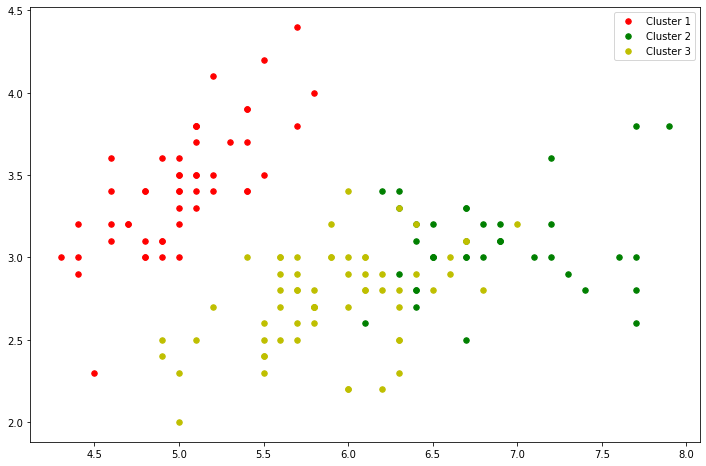
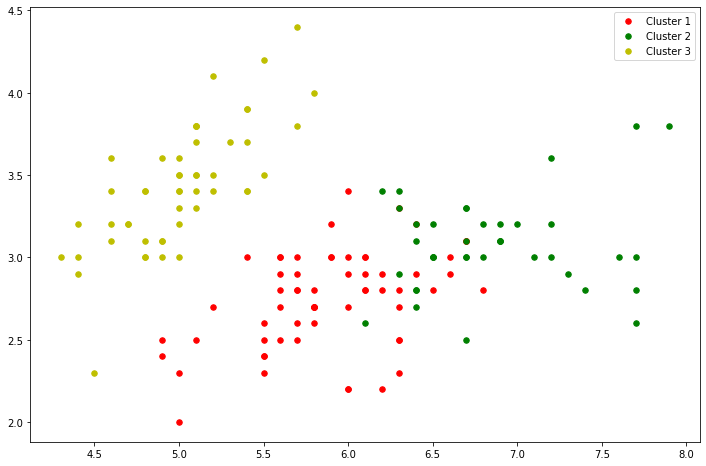
Update documentation

diff --git a/searchindex.js b/searchindex.js
@@ -1,1 +1,1 @@
-Search.setIndex({docnames:["intro","markdown","markdown-notebooks","notebooks","tugas-pendat/Tugas-1","tugas-pendat/Tugas-2","tugas-pendat/Tugas-3","tugas-pendat/Tugas-4","tugas-pendat/Tugas-5"],envversion:{"sphinx.domains.c":2,"sphinx.domains.changeset":1,"sphinx.domains.citation":1,"sphinx.domains.cpp":5,"sphinx.domains.index":1,"sphinx.domains.javascript":2,"sphinx.domains.math":2,"sphinx.domains.python":3,"sphinx.domains.rst":2,"sphinx.domains.std":2,"sphinx.ext.intersphinx":1,"sphinxcontrib.bibtex":9,sphinx:56},filenames:["intro.md","markdown.md","markdown-notebooks.md","notebooks.ipynb","tugas-pendat/Tugas-1.ipynb","tugas-pendat/Tugas-2.ipynb","tugas-pendat/Tugas-3.ipynb","tugas-pendat/Tugas-4.ipynb","tugas-pendat/Tugas-5.ipynb"],objects:{},objnames:{},objtypes:{},terms:{"0":[3,4,5,6,7,8],"000":7,"006":8,"025":4,"05":8,"07105263":8,"07368421":8,"0976":5,"099":5,"0c1cdefd54ea":7,"0x7f1bacec0350":[],"0x7f1bad4225d0":[],"0x7f601a4110d0":[],"0x7f601a48e410":[],"0x7f76a44a7350":[],"0x7f76aa023b10":[],"0x7f8c29ef6c90":[],"0x7f8c29fd7450":[],"0x7fea0260c050":8,"0x7fea026ec2d0":8,"1":[0,3,5,6,7,8],"10":[3,5,6],"100":[3,7,8],"1000":8,"103":4,"104":4,"105":4,"106":4,"107":4,"11":[4,6,7],"111":4,"118":4,"119":4,"12":[4,6,8],"120":4,"121":4,"122":4,"13":[4,6],"14":[4,6],"145":[5,7],"146":[5,7],"147":[5,7],"148":[5,7],"149":[5,7],"15":[5,6],"150":[5,6,7,8],"158":4,"16":[6,7],"169":4,"17":6,"170":4,"171":4,"179":8,"18":[6,7],"188":8,"19":6,"1936":8,"1950":8,"19680801":3,"1972":8,"1973":8,"1980":8,"1988":8,"1kuhyae0nojabhur8x9ft53ubbezy5rfj":6,"1myelto3v5yh3_dw2yjto4iwsxl1x4hx9":8,"1nmyhhmsa42gewd8kseny5po":7,"1rimsik6b7ieoeh2gkaj_mjajr8nvzpcq":5,"1ucj0bh7uyoa_uqevlc9cj_qmudkyfn3d":4,"2":[0,2,4,6,7,8],"20":[4,5,6,8],"2000":8,"2006":4,"2007":4,"2009":4,"2014":1,"2015":4,"2018":4,"2019":4,"2020":4,"2021":4,"21":6,"210411100119":[4,5,7],"21411100119":6,"218":8,"22":6,"22361":8,"23":6,"24":[4,6],"246":8,"25":[4,6],"296":5,"2989999999999995":5,"3":[0,4,5,7,8],"30":8,"33":8,"39354839":8,"3f":7,"3n1q3fiyfi20":4,"4":[0,2,3,4,5,6,8],"4194":8,"42":5,"428":8,"43":[5,8],"431":8,"433":8,"43387097":8,"46":5,"462":8,"47":5,"471":8,"48":5,"5":[3,4,5,6,7,8],"50":[5,8],"52":5,"54":[5,8],"56":5,"57":5,"59":5,"6":[5,6,7,8],"633":5,"64":8,"67":8,"6f9306ad21398ea43cba4f7d537619d0e07d5ae3":[5,6],"7":[4,5,6,7,8],"71":[5,8],"74210526":8,"7483871":8,"76":8,"7826":8,"8":[5,6,7,8],"83":8,"84":8,"85":8,"867":5,"88":[4,5],"8802":4,"8803":4,"8804":4,"8805":4,"8806":4,"8807":4,"8836201":[5,6],"8_":7,"9":[5,6,7,8],"90":4,"9016129":8,"9182958340544896":5,"933":5,"93333333":6,"9490":8,"95":4,"9565":8,"95c3c8c22551d5a29b4e92febecd7646":7,"96":4,"9666666666666667":6,"96666667":6,"967":5,"97":4,"98":4,"9800000000000001":6,"99":4,"994":5,"998":5,"999":5,"class":8,"default":2,"do":[1,3],"function":[1,8],"import":[3,4,5,6,7,8],"long":8,"new":[4,5,6,8],"return":[4,5,8],"true":[4,5,7],"while":4,A:[4,8],As:[3,4],But:3,For:[1,3],If:2,In:[1,4],Is:4,It:[0,1],NOT:8,No:8,One:8,That:2,The:[1,2,8],There:3,To:4,With:2,_iris_dataset:8,_messag:4,_mount:4,_not_readi:4,_o:4,_read_next_input_messag:4,about:[1,2,3,5,8],acc_gaussian:7,accept:1,accuraci:[6,7],accuracy_na:7,accuracy_nb:7,accuracy_scor:7,act:4,adalah:5,add:8,add_:3,africa:4,after:4,akan:5,al:8,alam:4,algorithm:[0,8],align:[3,5],all:[1,2,4,6,8],all_prob:5,allen:4,allow:1,alon:4,also:[1,2,3,8],ama:4,ambil:5,amo:4,amount_of_bin:5,amount_of_every_categori:5,amp:4,an:[1,8],analysi:8,angka:4,ani:[0,2],annual:8,antara:5,api:8,append:[5,8],appli:[4,8],ar:[1,2,8],arang:6,arc:8,argmin:8,around:8,arrai:[3,6,7,8],assign:8,assumpt:8,atau:5,attribut:8,auditori:1,australia:1,authtyp:4,authus:8,autoclass:8,averag:[6,7],ax:[3,8],axi:[4,5,8],b:8,banyaknya:5,base:2,basi:5,bay:0,been:6,begin:[3,5],being:1,berbasi:5,berdasarkan:5,bertip:5,besar:5,best:8,best_params_:6,best_score_:6,bib:1,bibliographi:1,bibtex:1,bin:5,binari:0,block:2,blocking_request:4,blood:4,boi:4,book:[1,2,3,5],both:[1,8],bouajila:4,box:1,brian:1,brisban:1,build:1,built:2,bundl:0,bunga:5,c_d_1_2:4,c_d_1_3:4,c_df_1_4:4,call:[1,4,5,7],can:[1,2,3],cape:4,cari:5,carilah:5,cartoonist:4,cast:4,categor:5,categori:5,center:4,centriod:8,centroid:8,chanan:4,chang:5,change_code_embark_to_bin:4,change_code_rating_to_bin:4,characterist:8,chase:4,check:[0,3,6],cheeseman:8,chevi:4,children:4,christoph:1,cite:1,citi:4,civilian:4,classic:8,classif:8,classifi:[0,6],classification_report:7,closest:8,cluster1:8,cluster2:8,cluster3:8,cluster:8,cluster_centers_:8,cm:[3,7,8],cmap:3,coach:4,code:[1,2,4,8],cognit:1,col:5,colab:[4,5,6,7,8],colab_repli:4,cold:3,color:[3,8],column:[4,5,6,7],column_rang:4,com:[4,5,6,7,8],comedi:4,command:2,comment:8,commonmark:1,compute_centroid:8,concat:[4,5],conceptu:8,confer:1,confus:7,confusion_matrix:7,constan:4,contain:8,content:[0,1,2,4],contingency_table_valu:4,contingency_valu:4,continu:4,contribut:8,convert:2,coolwarm:3,correl:8,cortex:1,count:5,count_contingency_valu:4,count_entropi:5,count_gain:5,counteverycategori:5,countri:4,courtenei:4,cox:4,creat:[3,5,6],creator:8,crime:4,cross:4,cross_val_scor:[6,7],csv:[4,5,6,7,8],csvfile:8,cult:4,current:8,custom_lin:3,cv:6,cv_score:6,cycler:3,d5df0069828e:4,d83:8,d:[2,4,5,7],d_1:5,d_2:5,dai:8,dan:[4,5],dari:5,dasarathi:8,data:[3,4,6,7,8],data_column:5,data_tujuan:5,databas:8,datafram:[5,6],datappint:8,dataset:[4,6,8],dataset_url:[5,6,7],date:8,date_ad:4,david:4,de:1,dead:4,decrement_by_on:4,def:[4,5,8],defin:[2,5,7],definisi:5,dengan:5,depend:[1,8],depict:8,depth:0,descr:8,descript:4,detail:2,df:[4,6],df_1_2:4,df_1_3:4,df_1_4:4,df_petal_width_ef:5,dfs_ephemer:4,dia:4,diberikan:5,dick:4,dict:4,dictionari:6,differ:1,digunakan:5,dikelompokkan:5,direct:2,director:4,discret:5,diskritasi:0,diskritisasi:5,displai:2,displaystyl:5,dissimilar:0,dist:4,distanc:8,distribut:8,divis:8,document:[0,1,2,3],documentari:4,docuseri:4,doe:0,dollar:3,donor:8,down:4,downei:4,drag:4,drama:4,drive:[4,5,6,7,8],drop:[6,7],drug:4,dtype:[5,6,7],duda:8,dumb:4,durat:4,e39b75ee5d40e08ad0e922ad3d9dfb064e559289:7,e:[7,8],e_:5,ea56e86e1af7:5,each:[6,8],ecosystem:1,eisenberg:4,els:[4,5],emb:3,emma:4,end:[3,4,5],entropi:5,entropi_data_target_1:5,entropy_data_tujuan_1:5,environ:8,ephemer:4,equal:5,equeal:5,escap:3,estim:[6,8],et:8,etc:3,eugen:8,everi:8,evid:1,exampl:[1,3,8],except:6,execut:[2,8],expandus:4,expect:8,expect_repli:4,explicit:8,expos:8,express:8,extens:1,f1:7,f1_score:7,factori:4,famili:4,famou:8,farid:[4,5,6,7],father:4,feature_nam:8,feel:0,feud:4,few:0,field:8,fig:[3,8],figsiz:[3,8],file:[0,2,7],filmm:4,fincher:4,find:8,find_closest_centroid:8,first:[5,6,8],first_seri:4,fisher:8,fit:[6,7,8],fitur:4,fix:3,flavor:1,fleischer:4,flirtat:4,follow:[1,2],force_remount:4,form:8,former:4,found:8,frac:5,frekuensi:5,frequenc:5,frequent:8,from:[3,4,5,6,7,8],frontier:1,full:8,fulli:8,fungsi:5,g:[4,7,8],gail:4,gain:5,gangland:4,gate:8,gaussian:7,gaussiannb:7,gener:8,get:[1,2,4],get_dissimilarity_dataset:4,get_seri:4,ghozali:[4,5,6,7],gist:[5,6,7],gistfile1:7,github:5,githubusercont:[5,6,7],give:0,given:[5,8],go:[0,4],googl:[4,5,6,7,8],gotoa:4,gov:8,greater_grup:5,gridsearch:6,gridsearchcv:6,groupbi:5,grup:5,guid:3,gyllenha:4,ha:[6,8],harrelson:4,hart:8,hasil:5,have:2,hdhpk14:1,head:[4,5,6],heer:1,help:1,her:4,here:[1,3,8],hewitt:4,hi:4,high:8,holdgraf:1,holdgraf_evidence_2014:1,horror:4,hot:3,how:[0,2,8],html:[3,8],http:[4,5,6,7,8],human:1,i:[4,5,7,8],id:7,identifi:8,idx:[4,8],ieee:8,ii:[3,8],iloc:7,imag:3,implement:8,implementasi:[0,5],impor:5,includ:[2,3],increment_by_on:4,india:4,info:5,info_a:5,inform:[0,2,3,8],informasi:5,inisi:5,inisial_entropi:5,init:2,initi:5,initial_centroid:8,initial_data_tujuan_entropi:5,inlin:[1,8],inplac:7,input:[1,4,5,7,8],insert:1,instanc:8,instead:8,instruct:2,int64:5,intellig:8,interact:3,intern:[1,4],interv:5,interval_petal_length_ef_bin:5,interval_petal_length_ew_bin:5,interval_petal_width_ef_bin:5,interval_petal_width_ew_bin:5,interval_sepal_length_ef_bin:5,interval_sepal_length_ew_bin:5,interval_sepal_width_ef_bin:5,interval_sepal_width_ew_bin:5,io:8,ion:3,ipynb:1,ipython:[4,5,7],iri:[5,6,7,8],isbn:8,isinst:4,item:4,iter:8,its:8,j:4,jadi:4,jailbird:4,jake:4,jane:4,januari:4,jess:4,jika:4,jitendra:4,john:8,johnson:4,joui:4,juli:[4,8],julien:4,jumlah:5,jupyt:[1,2,3,5],jupyterbook:1,jupytext:2,just:1,k:[0,4,5,8],k_meancluster1:8,k_meancluster2:8,k_meancluster3:8,kate:4,kategori:5,kaushal:4,keep:3,kelopak:5,keluar:5,kerangka:5,kernel:2,keyboardinterrupt:4,keyboardinterrupttraceback:4,kfold:7,khikisb:7,khosi:4,kid:4,kind:1,kirsten:4,klassifikasi:5,kmean:8,kneighborsclassifi:6,knight:1,knn2:6,knn:6,knn_cv:6,knn_gscv:6,known:[4,8],kolom:5,korean:4,kota:4,kumar:4,kumpulkan:5,la_:3,label:[5,8],labelled_petal_length_ef_bin:5,labelled_petal_length_ew_bin:5,labelled_petal_width_ef_bin:5,labelled_petal_width_ew_bin:5,labelled_sepal_length_ef_bin:5,labelled_sepal_length_ew_bin:5,labelled_sepal_width_ef_bin:5,labelled_sepal_width_ew_bin:5,labels_:8,lakukan:5,languag:1,last:[4,5,7],last_index:4,latter:8,learn:8,lebar:5,lebar_pet:5,lebar_sep:5,leclercq:4,legend:[3,8],len:5,length:[5,6,8],length_greater_grup:5,length_less_grup:5,less_grup:5,let:[2,8],lib:[4,8],librari:[5,8],life:4,like:[1,2,8],linalg:8,line2d:3,line:[1,2,3],linearli:8,link:[4,5,6,7,8],linspac:3,list:4,listed_in:4,literatur:8,live:4,ll:1,load_iri:8,loc:[4,5],local:[4,8],log2:5,log:5,log_:5,logspac:3,look:4,lor:4,lot:[1,3],lsqtushh:7,lw:3,m:8,ma:4,mabalan:4,machin:8,mahkota:5,mai:8,major:0,make:[3,8],make_scor:7,mani:[1,2,8],march:4,mark:4,markdown:[],markdownfil:2,markedli:1,markup:1,marshal:8,math:[3,5],mathemat:8,matplotlib:[3,4,8],matrix:7,max:8,max_it:8,mayur:4,mbox:3,md:[1,2],mean:[3,6,8],measur:8,medium:3,melakukan:5,membagi:5,memiliki:5,mencari:5,mengelompokkan:5,menghitung:5,mengubah:[4,5],menjadi:5,message_id:4,metod:5,metric:7,michael:8,micro:7,min:[4,8],min_dist:8,mine:4,miss:8,mlc:8,model:[6,7],model_select:[6,7],modul:[4,5,7,8],more:[0,2,3,4,8],moreov:1,most:[1,4,5,7],mount:4,mountpoint:4,movi:4,mozez:4,multipl:8,music:4,must:1,mydriv:4,myst:[],mysteri:4,n:[1,3,5,7,8],n_cluster:8,n_neighbor:6,n_petal_length_ef:5,n_petal_length_ew:5,n_petal_width:5,n_petal_width_ef:5,n_sepal_length_ef:5,n_sepal_length_ew:5,n_sepal_width_ef:5,n_sepal_width_ew:5,nabi:4,naiv:0,naive_bay:7,nama:[4,5,6,7],name:[5,7],nameerror:[5,7],nameerrortraceback:[5,7],nan:4,nasa:8,nearest:8,nears:4,need:2,neighbor:[6,8],neighborhood:8,netflix_titl:4,netj:[5,6],neurosci:1,new_entropi:5,newlin:8,ngema:4,nilai:5,nim:[4,5,6,7],nn:0,none:[4,8],norm:8,nose:8,note:[1,8],notebook:1,novemb:4,now:8,np:[3,4,6,8],number:[6,8],numer:[5,8],numerik:5,numpi:[3,4,6,8],ny:8,o:[7,8],object:6,off:[0,1,2],one:1,open:8,oper:8,org:[1,8],orlean:4,other:[2,8],our:[6,8],out:[0,3],output:2,over:4,overview:1,p4yhfp_bh7bv:8,p:8,packag:[4,5,8],pada:5,page:[0,1,2,8],pale:5,pami:8,panda:[4,5,6,7,8],panjang:5,panjang_pet:5,panjang_sep:5,paper:8,param_grid:6,parent:4,part:8,parti:4,partial:8,particular:0,paslei:1,path:[2,4,8],pattern:8,pd:[4,5,6,7,8],pembagi:5,penambangan:[],pendekatan:5,pengelompokkan:5,perbedaan:5,perform:[6,8],perhap:8,perhitungan:5,perolehan:5,persiapan:5,petal:[5,6,8],petal_length:5,petal_length_ef_bin:5,petal_length_ew_bin:5,petal_length_seri:5,petal_width:5,petal_width_ef_bin:5,petal_width_ew_bin:5,petal_width_seri:5,petallengthcm:7,petalwidthcm:7,peter:4,pg:4,pi:5,pick:8,plant:8,plot:3,plt:[3,4,8],plu:8,po81qiho34lorl_cugbsdo8fbc7nxcc:[],point:8,polit:4,poor:4,posit:8,post:3,power:[1,4],precis:7,precision_na:7,precision_scor:7,predict:[1,6,7,8],presenc:2,print:[2,6,7,8],prob:5,probabl:8,problem:8,proceed:8,process:7,prop_cycl:3,properli:1,prose:5,protect:4,provid:8,purpos:1,py:4,pyplot:[3,4,8],python3:[4,8],python:8,q327:8,q:4,qamata:4,qcut:5,quot:8,quote_nonnumer:8,r:[4,8],raaghav:4,raj:4,ramsai:1,randint:8,randn:3,random:[3,8],random_st:[6,7],rang:[3,4,8],ranjan:4,rat:4,rate:4,rating_movi:4,rating_tv:4,ravel:8,raw:[5,6,7],rcparam:3,read_csv:[4,5,6,7],read_reply_from_input:4,readi:8,realiti:4,recal:7,recall_na:7,recall_scor:7,recent:[4,5,7],recognit:8,reduc:8,refer:[1,8],referenc:8,regular:1,release_year:4,remov:6,render:1,repli:4,report:4,repositori:8,reproduc:3,request:4,request_auth:4,request_id:4,request_typ:4,research:[4,5,6,7,8],rest:2,result:8,right:5,robert:[1,4],romant:4,round:7,row:[4,5,6,7],ruben:4,ruffalo:4,rule:8,rumu:5,run:2,run_k_mean:8,s1:4,s2:4,s3:4,s4:4,s5:4,s8803:4,s8804:4,s8805:4,s8806:4,s8807:4,s:[1,2,3,4,5,8],sama:5,same:[1,8],sami:4,sampl:[0,3],samuel:4,sangat:5,sangat_lebar:5,sarah:4,scatter:8,scene:8,scikit:8,score:[6,7],score_na:7,scrappi:4,scrollto:[4,5,7,8],sd:8,seaborn:4,season:4,sebuah:5,second_seri:4,sedikit:5,sedikit_lebar:5,see:[0,1,2,3,8],seed:3,select:[7,8],send_request:4,sepal:[5,6,8],sepal_length:5,sepal_length_ef_bin:5,sepal_length_ew_bin:5,sepal_length_seri:5,sepal_width:5,sepal_width_ef_bin:5,sepal_width_ew_bin:5,sepal_width_seri:5,sepallengthcm:7,sepalwidthcm:7,separ:[6,8],septemb:4,seri:[4,5],series_index:4,serv:1,set:8,setiap:5,setosa:[5,6,7,8],sf4b6toep4u:5,shape:[4,5,6,8],share:[],should:2,show:[0,1,2,4,5,6],show_id:4,shuffl:8,sign:3,similar:1,simpl:1,singh:4,sir:8,site:8,size:8,sklearn:[6,7,8],sleep:4,slight:1,small:[0,1],sn:4,so:2,some:[0,1,3,8],son:8,songp3n:7,sourc:[5,6],south:4,span:1,speci:7,special:1,specif:1,sphinx:1,split:[5,6,7],split_valu:5,spooki:4,stabl:8,stand:1,start:[1,2],start_index:4,starter:1,state:[3,4],stati:5,statist:8,statsmodel:8,stone:4,store:1,stratifi:6,structur:[0,1,8],subplot:[3,8],suitabl:8,sum:5,sum_:5,sumber:5,summari:8,superhero:4,support:2,sure:3,surviv:4,sy:8,symetr:0,syntax:[1,5],system:8,t:[1,3,4],take:8,taken:[4,8],talk:4,tanpa:5,target:[5,6],taxonom:8,temp:5,tentukan:5,terabaik:5,terbaik:5,terdiri:5,test:[6,7],test_siz:[6,7],tex:3,text:[1,2],thaban:4,thei:1,them:6,theori:8,thi:[0,1,2,3,8],thing:2,those:[1,8],three:8,thriller:4,tim:4,time:4,timeout_m:4,timeout_sec:4,titl:4,toilet:4,tolist:8,tool:1,top:[2,6],topic:[0,8],town:4,traci:4,train:[4,6,7,8],train_test_split:[6,7],transact:8,treat:2,tuga:[0,8],tujuan_data:5,tupl:4,tv:4,two:[1,2,8],txt:7,ty:4,type:[0,4,8],type_movi:4,type_tv:4,u15:7,ubah:5,uci:8,understand:2,unit:4,untuk:5,updat:[4,8],us:[1,2,6,8],usp:[],usr:[4,8],v:8,valu:[4,5,6,7,8],value_count:5,value_of_on:4,value_of_zero:4,variabl:[4,6],variat:1,varieti:[5,6],versicolor:[6,7],versicolour:8,vicki:4,view:6,virginica:[6,7,8],visuaiz:8,visualis:8,vol:8,w:8,wai:4,want:[3,6],water:4,we:6,web:5,well:[0,3,8],wendi:1,when:[1,2],where:8,wherea:1,whether:1,which:[2,8],width:[5,6,8],wilei:8,woodi:4,work:3,world:4,worm:4,write:[1,2],writer:8,writerow:8,written:[1,2],wrong:8,x:[6,7,8],x_test:[6,7],x_train:[6,7],y7:4,y:[6,7,8],y_pred:7,y_test:[6,7],y_train:[6,7],yaitu:5,yang:5,you:[0,1,2,3,8],young:4,your:[1,2,3,8],zero:8,zo:4,zodiac:4,zombi:4,zombieland:4,zoom:4,zubaan:4},titles:["Welcome to your Jupyter Book","Markdown Files","Notebooks with MyST Markdown","Content with notebooks","Dissimilarity Binary Symetric ( Tugas 1 )","Diskritasi ( Tugas 2 )","Implementasi K-NN Algorithm ( Tugas 3 )","Naive-Bayes-Classifier ( Tugas 4 )","&lt;no title&gt;"],titleterms:{"1":4,"2":5,"3":6,"4":7,add:2,algorithm:6,an:2,antara:[],atau:[],banyaknya:[],bay:7,berbasi:[],berdasarkan:[],bin:[],binari:4,block:3,book:0,cari:[],cell:2,citat:1,classifi:7,code:3,content:3,creat:2,cut:5,data:5,definisi:[],dengan:[],diberikan:[],direct:1,discret:[],diskritasi:5,dissimilar:4,entropi:[],exampl:2,file:1,fungsi:[],gain:[],hitung:5,implementasi:6,info:[],inisi:[],jupyt:0,k:6,kategori:[],kelopak:[],learn:1,lebar:[],markdown:[1,2,3],menghitung:[],metadata:2,more:1,myst:[1,2,3],naiv:7,nilai:[],nn:6,notebook:[2,3],output:3,panjang:[],pembagi:[],penambangan:[],perbedaan:[],persiapan:[],qcut:[],quickli:2,role:1,sampl:1,sepal:[],setiap:[],split:[],symetr:4,tuga:[4,5,6,7],valu:[],welcom:0,what:1,yaml:2,yang:[],your:0}})
+Search.setIndex({docnames:["intro","markdown","markdown-notebooks","notebooks","tugas-pendat/Tugas-1","tugas-pendat/Tugas-2","tugas-pendat/Tugas-3","tugas-pendat/Tugas-4","tugas-pendat/Tugas-5"],envversion:{"sphinx.domains.c":2,"sphinx.domains.changeset":1,"sphinx.domains.citation":1,"sphinx.domains.cpp":5,"sphinx.domains.index":1,"sphinx.domains.javascript":2,"sphinx.domains.math":2,"sphinx.domains.python":3,"sphinx.domains.rst":2,"sphinx.domains.std":2,"sphinx.ext.intersphinx":1,"sphinxcontrib.bibtex":9,sphinx:56},filenames:["intro.md","markdown.md","markdown-notebooks.md","notebooks.ipynb","tugas-pendat/Tugas-1.ipynb","tugas-pendat/Tugas-2.ipynb","tugas-pendat/Tugas-3.ipynb","tugas-pendat/Tugas-4.ipynb","tugas-pendat/Tugas-5.ipynb"],objects:{},objnames:{},objtypes:{},terms:{"0":[3,4,5,6,7,8],"000":7,"006":8,"025":4,"05":8,"07105263":8,"07368421":8,"0976":5,"099":5,"0c1cdefd54ea":7,"0x7f1bacec0350":[],"0x7f1bad4225d0":[],"0x7f38563a2290":8,"0x7f3856910fd0":8,"0x7f601a4110d0":[],"0x7f601a48e410":[],"0x7f76a44a7350":[],"0x7f76aa023b10":[],"0x7f8c29ef6c90":[],"0x7f8c29fd7450":[],"0x7fea0260c050":[],"0x7fea026ec2d0":[],"1":[0,3,5,6,7,8],"10":[3,5,6],"100":[3,7,8],"1000":8,"103":4,"104":4,"105":4,"106":4,"107":4,"11":[4,6,7],"111":4,"118":4,"119":4,"12":[4,6,8],"120":4,"121":4,"122":4,"13":[4,6],"14":[4,6],"145":[5,7],"146":[5,7],"147":[5,7],"148":[5,7],"149":[5,7],"15":[5,6],"150":[5,6,7,8],"158":4,"16":[6,7],"169":4,"17":6,"170":4,"171":4,"179":8,"18":[6,7],"188":8,"19":6,"1936":8,"1950":8,"19680801":3,"1972":8,"1973":8,"1980":8,"1988":8,"1kuhyae0nojabhur8x9ft53ubbezy5rfj":6,"1myelto3v5yh3_dw2yjto4iwsxl1x4hx9":8,"1nmyhhmsa42gewd8kseny5po":7,"1rimsik6b7ieoeh2gkaj_mjajr8nvzpcq":5,"1ucj0bh7uyoa_uqevlc9cj_qmudkyfn3d":4,"2":[0,2,4,6,7,8],"20":[4,5,6,8],"2000":8,"2006":4,"2007":4,"2009":4,"2014":1,"2015":4,"2018":4,"2019":4,"2020":4,"2021":4,"21":6,"210411100119":[4,5,7],"21411100119":6,"218":8,"22":6,"22361":8,"23":6,"24":[4,6],"246":8,"25":[4,6],"296":5,"2989999999999995":5,"3":[0,4,5,7,8],"30":8,"33":8,"39354839":8,"3f":7,"3n1q3fiyfi20":4,"4":[0,2,3,4,5,6,8],"4194":8,"42":5,"428":8,"43":[5,8],"431":8,"433":8,"43387097":8,"46":5,"462":8,"47":5,"471":8,"48":5,"5":[3,4,5,6,7,8],"50":[5,8],"52":5,"54":[5,8],"56":5,"57":5,"59":5,"6":[5,6,7,8],"633":5,"64":8,"67":8,"6f9306ad21398ea43cba4f7d537619d0e07d5ae3":[5,6],"7":[4,5,6,7,8],"71":[5,8],"74210526":8,"7483871":8,"76":8,"7826":8,"8":[5,6,7,8],"83":8,"84":8,"85":8,"867":5,"88":[4,5],"8802":4,"8803":4,"8804":4,"8805":4,"8806":4,"8807":4,"8836201":[5,6],"8_":7,"9":[5,6,7,8],"90":4,"9016129":8,"9182958340544896":5,"933":5,"93333333":6,"9490":8,"95":4,"9565":8,"95c3c8c22551d5a29b4e92febecd7646":7,"96":4,"9666666666666667":6,"96666667":6,"967":5,"97":4,"98":4,"9800000000000001":6,"99":4,"994":5,"998":5,"999":5,"class":8,"default":2,"do":[1,3],"function":[1,8],"import":[3,4,5,6,7,8],"long":8,"new":[4,5,6,8],"return":[4,5,8],"true":[4,5,7],"while":4,A:[4,8],As:[3,4],But:3,For:[1,3],If:2,In:[1,4],Is:4,It:[0,1],NOT:8,No:8,One:8,That:2,The:[1,2,8],There:3,To:4,With:2,_iris_dataset:8,_messag:4,_mount:4,_not_readi:4,_o:4,_read_next_input_messag:4,about:[1,2,3,5,8],acc_gaussian:7,accept:1,accuraci:[6,7],accuracy_na:7,accuracy_nb:7,accuracy_scor:7,act:4,adalah:5,add:8,add_:3,africa:4,after:4,akan:5,al:8,alam:4,algorithm:[0,8],align:[3,5],all:[1,2,4,6,8],all_prob:5,allen:4,allow:1,alon:4,also:[1,2,3,8],ama:4,ambil:5,amo:4,amount_of_bin:5,amount_of_every_categori:5,amp:4,an:[1,8],analysi:8,angka:4,ani:[0,2],annual:8,antara:5,api:8,append:[5,8],appli:[4,8],ar:[1,2,8],arang:6,arc:8,argmin:8,around:8,arrai:[3,6,7,8],assign:8,assumpt:8,atau:5,attribut:8,auditori:1,australia:1,authtyp:4,authus:8,autoclass:8,averag:[6,7],ax:[3,8],axi:[4,5,8],b:8,banyaknya:5,base:2,basi:5,bay:0,been:6,begin:[3,5],being:1,berbasi:5,berdasarkan:5,bertip:5,besar:5,best:8,best_params_:6,best_score_:6,bib:1,bibliographi:1,bibtex:1,bin:5,binari:0,block:2,blocking_request:4,blood:4,boi:4,book:[1,2,3,5],both:[1,8],bouajila:4,box:1,brian:1,brisban:1,build:1,built:2,bundl:0,bunga:5,c_d_1_2:4,c_d_1_3:4,c_df_1_4:4,call:[1,4,5,7],can:[1,2,3],cape:4,cari:5,carilah:5,cartoonist:4,cast:4,categor:5,categori:5,center:4,centriod:8,centroid:8,chanan:4,chang:5,change_code_embark_to_bin:4,change_code_rating_to_bin:4,characterist:8,chase:4,check:[0,3,6],cheeseman:8,chevi:4,children:4,christoph:1,cite:1,citi:4,civilian:4,classic:8,classif:8,classifi:[0,6],classification_report:7,closest:8,cluster1:8,cluster2:8,cluster3:8,cluster:8,cluster_centers_:8,cm:[3,7,8],cmap:3,coach:4,code:[1,2,4,8],cognit:1,col:5,colab:[4,5,6,7,8],colab_repli:4,cold:3,color:[3,8],column:[4,5,6,7],column_rang:4,com:[4,5,6,7,8],comedi:4,command:2,comment:8,commonmark:1,compute_centroid:8,concat:[4,5],conceptu:8,confer:1,confus:7,confusion_matrix:7,constan:4,contain:8,content:[0,1,2,4],contingency_table_valu:4,contingency_valu:4,continu:4,contribut:8,convert:2,coolwarm:3,correl:8,cortex:1,count:5,count_contingency_valu:4,count_entropi:5,count_gain:5,counteverycategori:5,countri:4,courtenei:4,cox:4,creat:[3,5,6],creator:8,crime:4,cross:4,cross_val_scor:[6,7],csv:[4,5,6,7,8],csvfile:8,cult:4,current:8,custom_lin:3,cv:6,cv_score:6,cycler:3,d5df0069828e:4,d83:8,d:[2,4,5,7],d_1:5,d_2:5,dai:8,dan:[4,5],dari:5,dasarathi:8,data:[3,4,6,7,8],data_column:5,data_tujuan:5,databas:8,datafram:[5,6],datappint:8,dataset:[4,6,8],dataset_url:[5,6,7],date:8,date_ad:4,david:4,de:1,dead:4,decrement_by_on:4,def:[4,5,8],defin:[2,5,7],definisi:5,dengan:5,depend:[1,8],depict:8,depth:0,descr:8,descript:4,detail:2,df:[4,6],df_1_2:4,df_1_3:4,df_1_4:4,df_petal_width_ef:5,dfs_ephemer:4,dia:4,diberikan:5,dick:4,dict:4,dictionari:6,differ:1,digunakan:5,dikelompokkan:5,direct:2,director:4,discret:5,diskritasi:0,diskritisasi:5,displai:2,displaystyl:5,dissimilar:0,dist:4,distanc:8,distribut:8,divis:8,document:[0,1,2,3],documentari:4,docuseri:4,doe:0,dollar:3,donor:8,down:4,downei:4,drag:4,drama:4,drive:[4,5,6,7,8],drop:[6,7],drug:4,dtype:[5,6,7],duda:8,dumb:4,durat:4,e39b75ee5d40e08ad0e922ad3d9dfb064e559289:7,e:[7,8],e_:5,ea56e86e1af7:5,each:[6,8],ecosystem:1,eisenberg:4,els:[4,5],emb:3,emma:4,end:[3,4,5],entropi:5,entropi_data_target_1:5,entropy_data_tujuan_1:5,environ:8,ephemer:4,equal:5,equeal:5,escap:3,estim:[6,8],et:8,etc:3,eugen:8,everi:8,evid:1,exampl:[1,3,8],except:6,execut:[2,8],expandus:4,expect:8,expect_repli:4,explicit:8,expos:8,express:8,extens:1,f1:7,f1_score:7,factori:4,famili:4,famou:8,farid:[4,5,6,7],father:4,feature_nam:8,feel:0,feud:4,few:0,field:8,fig:[3,8],figsiz:[3,8],file:[0,2,7],filmm:4,fincher:4,find:8,find_closest_centroid:8,first:[5,6,8],first_seri:4,fisher:8,fit:[6,7,8],fitur:4,fix:3,flavor:1,fleischer:4,flirtat:4,follow:[1,2],force_remount:4,form:8,former:4,found:8,frac:5,frekuensi:5,frequenc:5,frequent:8,from:[3,4,5,6,7,8],frontier:1,full:8,fulli:8,fungsi:5,g:[4,7,8],gail:4,gain:5,gangland:4,gate:8,gaussian:7,gaussiannb:7,gener:8,get:[1,2,4],get_dissimilarity_dataset:4,get_seri:4,ghozali:[4,5,6,7],gist:[5,6,7],gistfile1:7,github:5,githubusercont:[5,6,7],give:0,given:[5,8],go:[0,4],googl:[4,5,6,7,8],gotoa:4,gov:8,greater_grup:5,gridsearch:6,gridsearchcv:6,groupbi:5,grup:5,guid:3,gyllenha:4,ha:[6,8],harrelson:4,hart:8,hasil:5,have:2,hdhpk14:1,head:[4,5,6],heer:1,help:1,her:4,here:[1,3,8],hewitt:4,hi:4,high:8,holdgraf:1,holdgraf_evidence_2014:1,horror:4,hot:3,how:[0,2,8],html:[3,8],http:[4,5,6,7,8],human:1,i:[4,5,7,8],id:7,identifi:8,idx:[4,8],ieee:8,ii:[3,8],iloc:7,imag:3,implement:8,implementasi:[0,5],impor:5,includ:[2,3],increment_by_on:4,india:4,info:5,info_a:5,inform:[0,2,3,8],informasi:5,inisi:5,inisial_entropi:5,init:2,initi:5,initial_centroid:8,initial_data_tujuan_entropi:5,inlin:[1,8],inplac:7,input:[1,4,5,7,8],insert:1,instanc:8,instead:8,instruct:2,int64:5,intellig:8,interact:3,intern:[1,4],interv:5,interval_petal_length_ef_bin:5,interval_petal_length_ew_bin:5,interval_petal_width_ef_bin:5,interval_petal_width_ew_bin:5,interval_sepal_length_ef_bin:5,interval_sepal_length_ew_bin:5,interval_sepal_width_ef_bin:5,interval_sepal_width_ew_bin:5,io:8,ion:3,ipynb:1,ipython:[4,5,7],iri:[5,6,7,8],isbn:8,isinst:4,item:4,iter:8,its:8,j:4,jadi:4,jailbird:4,jake:4,jane:4,januari:4,jess:4,jika:4,jitendra:4,john:8,johnson:4,joui:4,juli:[4,8],julien:4,jumlah:5,jupyt:[1,2,3,5],jupyterbook:1,jupytext:2,just:1,k:[0,4,5,8],k_meancluster1:8,k_meancluster2:8,k_meancluster3:8,kate:4,kategori:5,kaushal:4,keep:3,kelopak:5,keluar:5,kerangka:5,kernel:2,keyboardinterrupt:4,keyboardinterrupttraceback:4,kfold:7,khikisb:7,khosi:4,kid:4,kind:1,kirsten:4,klassifikasi:5,kmean:8,kneighborsclassifi:6,knight:1,knn2:6,knn:6,knn_cv:6,knn_gscv:6,known:[4,8],kolom:5,korean:4,kota:4,kumar:4,kumpulkan:5,la_:3,label:[5,8],labelled_petal_length_ef_bin:5,labelled_petal_length_ew_bin:5,labelled_petal_width_ef_bin:5,labelled_petal_width_ew_bin:5,labelled_sepal_length_ef_bin:5,labelled_sepal_length_ew_bin:5,labelled_sepal_width_ef_bin:5,labelled_sepal_width_ew_bin:5,labels_:8,lakukan:5,languag:1,last:[4,5,7],last_index:4,latter:8,learn:8,lebar:5,lebar_pet:5,lebar_sep:5,leclercq:4,legend:[3,8],len:5,length:[5,6,8],length_greater_grup:5,length_less_grup:5,less_grup:5,let:[2,8],lib:[4,8],librari:[5,8],life:4,like:[1,2,8],linalg:8,line2d:3,line:[1,2,3],linearli:8,link:[4,5,6,7,8],linspac:3,list:4,listed_in:4,literatur:8,live:4,ll:1,load_iri:8,loc:[4,5],local:[4,8],log2:5,log:5,log_:5,logspac:3,look:4,lor:4,lot:[1,3],lsqtushh:7,lw:3,m:8,ma:4,mabalan:4,machin:8,mahkota:5,mai:8,major:0,make:[3,8],make_scor:7,mani:[1,2,8],march:4,mark:4,markdown:[],markdownfil:2,markedli:1,markup:1,marshal:8,math:[3,5],mathemat:8,matplotlib:[3,4,8],matrix:7,max:8,max_it:8,mayur:4,mbox:3,md:[1,2],mean:[3,6,8],measur:8,medium:3,melakukan:5,membagi:5,memiliki:5,mencari:5,mengelompokkan:5,menghitung:5,mengubah:[4,5],menjadi:5,message_id:4,metod:5,metric:7,michael:8,micro:7,min:[4,8],min_dist:8,mine:4,miss:8,mlc:8,model:[6,7],model_select:[6,7],modul:[4,5,7,8],more:[0,2,3,4,8],moreov:1,most:[1,4,5,7],mount:4,mountpoint:4,movi:4,mozez:4,multipl:8,music:4,must:1,mydriv:4,myst:[],mysteri:4,n:[1,3,5,7,8],n_cluster:8,n_neighbor:6,n_petal_length_ef:5,n_petal_length_ew:5,n_petal_width:5,n_petal_width_ef:5,n_sepal_length_ef:5,n_sepal_length_ew:5,n_sepal_width_ef:5,n_sepal_width_ew:5,nabi:4,naiv:0,naive_bay:7,nama:[4,5,6,7],name:[5,7],nameerror:[5,7],nameerrortraceback:[5,7],nan:4,nasa:8,nearest:8,nears:4,need:2,neighbor:[6,8],neighborhood:8,netflix_titl:4,netj:[5,6],neurosci:1,new_entropi:5,newlin:8,ngema:4,nilai:5,nim:[4,5,6,7],nn:0,none:[4,8],norm:8,nose:8,note:[1,8],notebook:1,novemb:4,now:8,np:[3,4,6,8],number:[6,8],numer:[5,8],numerik:5,numpi:[3,4,6,8],ny:8,o:[7,8],object:6,off:[0,1,2],one:1,open:8,oper:8,org:[1,8],orlean:4,other:[2,8],our:[6,8],out:[0,3],output:2,over:4,overview:1,p4yhfp_bh7bv:8,p:8,packag:[4,5,8],pada:5,page:[0,1,2,8],pale:5,pami:8,panda:[4,5,6,7,8],panjang:5,panjang_pet:5,panjang_sep:5,paper:8,param_grid:6,parent:4,part:8,parti:4,partial:8,particular:0,paslei:1,path:[2,4,8],pattern:8,pd:[4,5,6,7,8],pembagi:5,penambangan:[],pendekatan:5,pengelompokkan:5,perbedaan:5,perform:[6,8],perhap:8,perhitungan:5,perolehan:5,persiapan:5,petal:[5,6,8],petal_length:5,petal_length_ef_bin:5,petal_length_ew_bin:5,petal_length_seri:5,petal_width:5,petal_width_ef_bin:5,petal_width_ew_bin:5,petal_width_seri:5,petallengthcm:7,petalwidthcm:7,peter:4,pg:4,pi:5,pick:8,plant:8,plot:3,plt:[3,4,8],plu:8,po81qiho34lorl_cugbsdo8fbc7nxcc:[],point:8,polit:4,poor:4,posit:8,post:3,power:[1,4],precis:7,precision_na:7,precision_scor:7,predict:[1,6,7,8],presenc:2,print:[2,6,7,8],prob:5,probabl:8,problem:8,proceed:8,process:7,prop_cycl:3,properli:1,prose:5,protect:4,provid:8,purpos:1,py:4,pyplot:[3,4,8],python3:[4,8],python:8,q327:8,q:4,qamata:4,qcut:5,quot:8,quote_nonnumer:8,r:[4,8],raaghav:4,raj:4,ramsai:1,randint:8,randn:3,random:[3,8],random_st:[6,7],rang:[3,4,8],ranjan:4,rat:4,rate:4,rating_movi:4,rating_tv:4,ravel:8,raw:[5,6,7],rcparam:3,read_csv:[4,5,6,7],read_reply_from_input:4,readi:8,realiti:4,recal:7,recall_na:7,recall_scor:7,recent:[4,5,7],recognit:8,reduc:8,refer:[1,8],referenc:8,regular:1,release_year:4,remov:6,render:1,repli:4,report:4,repositori:8,reproduc:3,request:4,request_auth:4,request_id:4,request_typ:4,research:[4,5,6,7,8],rest:2,result:8,right:5,robert:[1,4],romant:4,round:7,row:[4,5,6,7],ruben:4,ruffalo:4,rule:8,rumu:5,run:2,run_k_mean:8,s1:4,s2:4,s3:4,s4:4,s5:4,s8803:4,s8804:4,s8805:4,s8806:4,s8807:4,s:[1,2,3,4,5,8],sama:5,same:[1,8],sami:4,sampl:[0,3],samuel:4,sangat:5,sangat_lebar:5,sarah:4,scatter:8,scene:8,scikit:8,score:[6,7],score_na:7,scrappi:4,scrollto:[4,5,7,8],sd:8,seaborn:4,season:4,sebuah:5,second_seri:4,sedikit:5,sedikit_lebar:5,see:[0,1,2,3,8],seed:3,select:[7,8],send_request:4,sepal:[5,6,8],sepal_length:5,sepal_length_ef_bin:5,sepal_length_ew_bin:5,sepal_length_seri:5,sepal_width:5,sepal_width_ef_bin:5,sepal_width_ew_bin:5,sepal_width_seri:5,sepallengthcm:7,sepalwidthcm:7,separ:[6,8],septemb:4,seri:[4,5],series_index:4,serv:1,set:8,setiap:5,setosa:[5,6,7,8],sf4b6toep4u:5,shape:[4,5,6,8],share:[],should:2,show:[0,1,2,4,5,6],show_id:4,shuffl:8,sign:3,similar:1,simpl:1,singh:4,sir:8,site:8,size:8,sklearn:[6,7,8],sleep:4,slight:1,small:[0,1],sn:4,so:2,some:[0,1,3,8],son:8,songp3n:7,sourc:[5,6],south:4,span:1,speci:7,special:1,specif:1,sphinx:1,split:[5,6,7],split_valu:5,spooki:4,stabl:8,stand:1,start:[1,2],start_index:4,starter:1,state:[3,4],stati:5,statist:8,statsmodel:8,stone:4,store:1,stratifi:6,structur:[0,1,8],subplot:[3,8],suitabl:8,sum:5,sum_:5,sumber:5,summari:8,superhero:4,support:2,sure:3,surviv:4,sy:8,symetr:0,syntax:[1,5],system:8,t:[1,3,4],take:8,taken:[4,8],talk:4,tanpa:5,target:[5,6],taxonom:8,temp:5,tentukan:5,terabaik:5,terbaik:5,terdiri:5,test:[6,7],test_siz:[6,7],tex:3,text:[1,2],thaban:4,thei:1,them:6,theori:8,thi:[0,1,2,3,8],thing:2,those:[1,8],three:8,thriller:4,tim:4,time:4,timeout_m:4,timeout_sec:4,titl:4,toilet:4,tolist:8,tool:1,top:[2,6],topic:[0,8],town:4,traci:4,train:[4,6,7,8],train_test_split:[6,7],transact:8,treat:2,tuga:[0,8],tujuan_data:5,tupl:4,tv:4,two:[1,2,8],txt:7,ty:4,type:[0,4,8],type_movi:4,type_tv:4,u15:7,ubah:5,uci:8,understand:2,unit:4,untuk:5,updat:[4,8],us:[1,2,6,8],usp:[],usr:[4,8],v:8,valu:[4,5,6,7,8],value_count:5,value_of_on:4,value_of_zero:4,variabl:[4,6],variat:1,varieti:[5,6],versicolor:[6,7],versicolour:8,vicki:4,view:6,virginica:[6,7,8],visuaiz:8,visualis:8,vol:8,w:8,wai:4,want:[3,6],water:4,we:6,web:5,well:[0,3,8],wendi:1,when:[1,2],where:8,wherea:1,whether:1,which:[2,8],width:[5,6,8],wilei:8,woodi:4,work:3,world:4,worm:4,write:[1,2],writer:8,writerow:8,written:[1,2],wrong:8,x:[6,7,8],x_test:[6,7],x_train:[6,7],y7:4,y:[6,7,8],y_pred:7,y_test:[6,7],y_train:[6,7],yaitu:5,yang:5,you:[0,1,2,3,8],young:4,your:[1,2,3,8],zero:8,zo:4,zodiac:4,zombi:4,zombieland:4,zoom:4,zubaan:4},titles:["Welcome to your Jupyter Book","Markdown Files","Notebooks with MyST Markdown","Content with notebooks","Dissimilarity Binary Symetric ( Tugas 1 )","Diskritasi ( Tugas 2 )","Implementasi K-NN Algorithm ( Tugas 3 )","Naive-Bayes-Classifier ( Tugas 4 )","&lt;no title&gt;"],titleterms:{"1":4,"2":5,"3":6,"4":7,add:2,algorithm:6,an:2,antara:[],atau:[],banyaknya:[],bay:7,berbasi:[],berdasarkan:[],bin:[],binari:4,block:3,book:0,cari:[],cell:2,citat:1,classifi:7,code:3,content:3,creat:2,cut:5,data:5,definisi:[],dengan:[],diberikan:[],direct:1,discret:[],diskritasi:5,dissimilar:4,entropi:[],exampl:2,file:1,fungsi:[],gain:[],hitung:5,implementasi:6,info:[],inisi:[],jupyt:0,k:6,kategori:[],kelopak:[],learn:1,lebar:[],markdown:[1,2,3],menghitung:[],metadata:2,more:1,myst:[1,2,3],naiv:7,nilai:[],nn:6,notebook:[2,3],output:3,panjang:[],pembagi:[],penambangan:[],perbedaan:[],persiapan:[],qcut:[],quickli:2,role:1,sampl:1,sepal:[],setiap:[],split:[],symetr:4,tuga:[4,5,6,7],valu:[],welcom:0,what:1,yaml:2,yang:[],your:0}})

diff --git a/tugas-pendat/Tugas-3.html b/tugas-pendat/Tugas-3.html
@@ -94,7 +94,7 @@ const thebe_selector_output = ".output, .cell_output"
         
       
       
-      <img src="_static/https://ibb.co/JHLXfTQ" class="logo" alt="logo">
+      <img src="../_static/Farid.jpg" class="logo" alt="logo">
       
       
       <h1 class="site-logo" id="site-title">Data Mining</h1>
@@ -379,7 +379,7 @@ title="Print to PDF"
 </div>
 <div class="cell_output docutils container">
 <div class="output text_html">
-  <div id="df-d20bea3f-5653-4a35-8f58-1c5d71f7ab78">
+  <div id="df-4e1beb49-b4f1-453c-9cb7-612781cab9d6">
     <div class="colab-df-container">
       <div>
 <style scoped>
@@ -450,7 +450,7 @@ title="Print to PDF"
   </tbody>
 </table>
 </div>
-      <button class="colab-df-convert" onclick="convertToInteractive('df-d20bea3f-5653-4a35-8f58-1c5d71f7ab78')"
+      <button class="colab-df-convert" onclick="convertToInteractive('df-4e1beb49-b4f1-453c-9cb7-612781cab9d6')"
               title="Convert this dataframe to an interactive table."
               style="display:none;">
 
@@ -501,12 +501,12 @@ title="Print to PDF"
 
       <script>
         const buttonEl =
-          document.querySelector('#df-d20bea3f-5653-4a35-8f58-1c5d71f7ab78 button.colab-df-convert');
+          document.querySelector('#df-4e1beb49-b4f1-453c-9cb7-612781cab9d6 button.colab-df-convert');
         buttonEl.style.display =
           google.colab.kernel.accessAllowed ? 'block' : 'none';
 
         async function convertToInteractive(key) {
-          const element = document.querySelector('#df-d20bea3f-5653-4a35-8f58-1c5d71f7ab78');
+          const element = document.querySelector('#df-4e1beb49-b4f1-453c-9cb7-612781cab9d6');
           const dataTable =
             await google.colab.kernel.invokeFunction('convertToInteractive',
                                                      [key], {});
@@ -551,7 +551,7 @@ title="Print to PDF"
 </div>
 <div class="cell_output docutils container">
 <div class="output text_html">
-  <div id="df-1cc6dce4-9778-4399-bbef-1845ccae78b8">
+  <div id="df-94871e28-8b54-4309-8aa6-3ce691755d4c">
     <div class="colab-df-container">
       <div>
 <style scoped>
@@ -616,7 +616,7 @@ title="Print to PDF"
   </tbody>
 </table>
 </div>
-      <button class="colab-df-convert" onclick="convertToInteractive('df-1cc6dce4-9778-4399-bbef-1845ccae78b8')"
+      <button class="colab-df-convert" onclick="convertToInteractive('df-94871e28-8b54-4309-8aa6-3ce691755d4c')"
               title="Convert this dataframe to an interactive table."
               style="display:none;">
 
@@ -667,12 +667,12 @@ title="Print to PDF"
 
       <script>
         const buttonEl =
-          document.querySelector('#df-1cc6dce4-9778-4399-bbef-1845ccae78b8 button.colab-df-convert');
+          document.querySelector('#df-94871e28-8b54-4309-8aa6-3ce691755d4c button.colab-df-convert');
         buttonEl.style.display =
           google.colab.kernel.accessAllowed ? 'block' : 'none';
 
         async function convertToInteractive(key) {
-          const element = document.querySelector('#df-1cc6dce4-9778-4399-bbef-1845ccae78b8');
+          const element = document.querySelector('#df-94871e28-8b54-4309-8aa6-3ce691755d4c');
           const dataTable =
             await google.colab.kernel.invokeFunction('convertToInteractive',
                                                      [key], {});

diff --git a/tugas-pendat/Tugas-5.html b/tugas-pendat/Tugas-5.html
@@ -93,7 +93,7 @@ const thebe_selector_output = ".output, .cell_output"
         
       
       
-      <img src="_static/https://ibb.co/JHLXfTQ" class="logo" alt="logo">
+      <img src="../_static/Farid.jpg" class="logo" alt="logo">
       
       
       <h1 class="site-logo" id="site-title">Data Mining</h1>
@@ -469,14 +469,14 @@ latter are NOT linearly separable from each other.
 </div>
 </div>
 <div class="cell_output docutils container">
-<div class="output stream highlight-myst-ansi notranslate"><div class="highlight"><pre><span></span>[1 1 1 1 1 1 1 1 1 1 1 1 1 1 1 1 1 1 1 1 1 1 1 1 1 1 1 1 1 1 1 1 1 1 1 1 1
- 1 1 1 1 1 1 1 1 1 1 1 1 1 2 2 0 2 2 2 2 2 2 2 2 2 2 2 2 2 2 2 2 2 2 2 2 2
- 2 2 2 0 2 2 2 2 2 2 2 2 2 2 2 2 2 2 2 2 2 2 2 2 2 2 0 2 0 0 0 0 2 0 0 0 0
- 0 0 2 2 0 0 0 0 2 0 2 0 2 0 0 2 2 0 0 0 0 0 2 0 0 0 0 2 0 0 0 2 0 0 0 2 0
- 0 2]
-[[6.85       3.07368421 5.74210526 2.07105263]
- [5.006      3.428      1.462      0.246     ]
- [5.9016129  2.7483871  4.39354839 1.43387097]]
+<div class="output stream highlight-myst-ansi notranslate"><div class="highlight"><pre><span></span>[0 0 0 0 0 0 0 0 0 0 0 0 0 0 0 0 0 0 0 0 0 0 0 0 0 0 0 0 0 0 0 0 0 0 0 0 0
+ 0 0 0 0 0 0 0 0 0 0 0 0 0 1 1 2 1 1 1 1 1 1 1 1 1 1 1 1 1 1 1 1 1 1 1 1 1
+ 1 1 1 2 1 1 1 1 1 1 1 1 1 1 1 1 1 1 1 1 1 1 1 1 1 1 2 1 2 2 2 2 1 2 2 2 2
+ 2 2 1 1 2 2 2 2 1 2 1 2 1 2 2 1 1 2 2 2 2 2 1 2 2 2 2 1 2 2 2 1 2 2 2 1 2
+ 2 1]
+[[5.006      3.428      1.462      0.246     ]
+ [5.9016129  2.7483871  4.39354839 1.43387097]
+ [6.85       3.07368421 5.74210526 2.07105263]]
 </pre></div>
 </div>
 </div>
@@ -595,7 +595,7 @@ latter are NOT linearly separable from each other.
 </div>
 </div>
 <div class="cell_output docutils container">
-<div class="output text_plain highlight-myst-ansi notranslate"><div class="highlight"><pre><span></span>&lt;matplotlib.legend.Legend at 0x7fea026ec2d0&gt;
+<div class="output text_plain highlight-myst-ansi notranslate"><div class="highlight"><pre><span></span>&lt;matplotlib.legend.Legend at 0x7f3856910fd0&gt;
 </pre></div>
 </div>
 <img alt="../_images/Tugas-5_12_1.png" src="../_images/Tugas-5_12_1.png" />
@@ -613,7 +613,7 @@ latter are NOT linearly separable from each other.
 </div>
 </div>
 <div class="cell_output docutils container">
-<div class="output text_plain highlight-myst-ansi notranslate"><div class="highlight"><pre><span></span>&lt;matplotlib.legend.Legend at 0x7fea0260c050&gt;
+<div class="output text_plain highlight-myst-ansi notranslate"><div class="highlight"><pre><span></span>&lt;matplotlib.legend.Legend at 0x7f38563a2290&gt;
 </pre></div>
 </div>
 <img alt="../_images/Tugas-5_14_1.png" src="../_images/Tugas-5_14_1.png" />

diff --git a/tugas-pendat/Tugas-4.html b/tugas-pendat/Tugas-4.html
@@ -94,7 +94,7 @@ const thebe_selector_output = ".output, .cell_output"
         
       
       
-      <img src="_static/https://ibb.co/JHLXfTQ" class="logo" alt="logo">
+      <img src="../_static/Farid.jpg" class="logo" alt="logo">
       
       
       <h1 class="site-logo" id="site-title">Data Mining</h1>
@@ -380,7 +380,7 @@ title="Print to PDF"
 </div>
 <div class="cell_output docutils container">
 <div class="output text_html">
-  <div id="df-1dc3805b-e779-4993-928c-4195f935977a">
+  <div id="df-334af016-0963-4551-9c37-5e2d9176248b">
     <div class="colab-df-container">
       <div>
 <style scoped>
@@ -512,7 +512,7 @@ title="Print to PDF"
 </table>
 <p>150 rows × 6 columns</p>
 </div>
-      <button class="colab-df-convert" onclick="convertToInteractive('df-1dc3805b-e779-4993-928c-4195f935977a')"
+      <button class="colab-df-convert" onclick="convertToInteractive('df-334af016-0963-4551-9c37-5e2d9176248b')"
               title="Convert this dataframe to an interactive table."
               style="display:none;">
 
@@ -563,12 +563,12 @@ title="Print to PDF"
 
       <script>
         const buttonEl =
-          document.querySelector('#df-1dc3805b-e779-4993-928c-4195f935977a button.colab-df-convert');
+          document.querySelector('#df-334af016-0963-4551-9c37-5e2d9176248b button.colab-df-convert');
         buttonEl.style.display =
           google.colab.kernel.accessAllowed ? 'block' : 'none';
 
         async function convertToInteractive(key) {
-          const element = document.querySelector('#df-1dc3805b-e779-4993-928c-4195f935977a');
+          const element = document.querySelector('#df-334af016-0963-4551-9c37-5e2d9176248b');
           const dataTable =
             await google.colab.kernel.invokeFunction('convertToInteractive',
                                                      [key], {});

diff --git a/tugas-pendat/Tugas-2.html b/tugas-pendat/Tugas-2.html
@@ -96,7 +96,7 @@ const thebe_selector_output = ".output, .cell_output"
         
       
       
-      <img src="_static/https://ibb.co/JHLXfTQ" class="logo" alt="logo">
+      <img src="../_static/Farid.jpg" class="logo" alt="logo">
       
       
       <h1 class="site-logo" id="site-title">Data Mining</h1>
@@ -432,7 +432,7 @@ title="Print to PDF"
 </div>
 <div class="cell_output docutils container">
 <div class="output text_html">
-  <div id="df-310e0e90-3be3-4c09-9954-98ebaae4ec87">
+  <div id="df-2317c224-3ac3-4169-8962-47b7969b5c2e">
     <div class="colab-df-container">
       <div>
 <style scoped>
@@ -543,7 +543,7 @@ title="Print to PDF"
   </tbody>
 </table>
 </div>
-      <button class="colab-df-convert" onclick="convertToInteractive('df-310e0e90-3be3-4c09-9954-98ebaae4ec87')"
+      <button class="colab-df-convert" onclick="convertToInteractive('df-2317c224-3ac3-4169-8962-47b7969b5c2e')"
               title="Convert this dataframe to an interactive table."
               style="display:none;">
 
@@ -594,12 +594,12 @@ title="Print to PDF"
 
       <script>
         const buttonEl =
-          document.querySelector('#df-310e0e90-3be3-4c09-9954-98ebaae4ec87 button.colab-df-convert');
+          document.querySelector('#df-2317c224-3ac3-4169-8962-47b7969b5c2e button.colab-df-convert');
         buttonEl.style.display =
           google.colab.kernel.accessAllowed ? 'block' : 'none';
 
         async function convertToInteractive(key) {
-          const element = document.querySelector('#df-310e0e90-3be3-4c09-9954-98ebaae4ec87');
+          const element = document.querySelector('#df-2317c224-3ac3-4169-8962-47b7969b5c2e');
           const dataTable =
             await google.colab.kernel.invokeFunction('convertToInteractive',
                                                      [key], {});

diff --git a/tugas-pendat/Tugas-1.html b/tugas-pendat/Tugas-1.html
@@ -94,7 +94,7 @@ const thebe_selector_output = ".output, .cell_output"
         
       
       
-      <img src="_static/https://ibb.co/JHLXfTQ" class="logo" alt="logo">
+      <img src="../_static/Farid.jpg" class="logo" alt="logo">
       
       
       <h1 class="site-logo" id="site-title">Data Mining</h1>

diff --git a/genindex.html b/genindex.html
@@ -91,7 +91,7 @@ const thebe_selector_output = ".output, .cell_output"
         
       
       
-      <img src="_static/https://ibb.co/JHLXfTQ" class="logo" alt="logo">
+      <img src="_static/Farid.jpg" class="logo" alt="logo">
       
       
       <h1 class="site-logo" id="site-title">Data Mining</h1>

diff --git a/intro.html b/intro.html
@@ -93,7 +93,7 @@ const thebe_selector_output = ".output, .cell_output"
         
       
       
-      <img src="_static/https://ibb.co/JHLXfTQ" class="logo" alt="logo">
+      <img src="_static/Farid.jpg" class="logo" alt="logo">
       
       
       <h1 class="site-logo" id="site-title">Data Mining</h1>

diff --git a/markdown-notebooks.html b/markdown-notebooks.html
@@ -92,7 +92,7 @@ const thebe_selector_output = ".output, .cell_output"
         
       
       
-      <img src="_static/https://ibb.co/JHLXfTQ" class="logo" alt="logo">
+      <img src="_static/Farid.jpg" class="logo" alt="logo">
       
       
       <h1 class="site-logo" id="site-title">Data Mining</h1>

diff --git a/markdown.html b/markdown.html
@@ -92,7 +92,7 @@ const thebe_selector_output = ".output, .cell_output"
         
       
       
-      <img src="_static/https://ibb.co/JHLXfTQ" class="logo" alt="logo">
+      <img src="_static/Farid.jpg" class="logo" alt="logo">
       
       
       <h1 class="site-logo" id="site-title">Data Mining</h1>

diff --git a/notebooks.html b/notebooks.html
@@ -94,7 +94,7 @@ const thebe_selector_output = ".output, .cell_output"
         
       
       
-      <img src="_static/https://ibb.co/JHLXfTQ" class="logo" alt="logo">
+      <img src="_static/Farid.jpg" class="logo" alt="logo">
       
       
       <h1 class="site-logo" id="site-title">Data Mining</h1>

diff --git a/search.html b/search.html
@@ -97,7 +97,7 @@ const thebe_selector_output = ".output, .cell_output"
         
       
       
-      <img src="_static/https://ibb.co/JHLXfTQ" class="logo" alt="logo">
+      <img src="_static/Farid.jpg" class="logo" alt="logo">
       
       
       <h1 class="site-logo" id="site-title">Data Mining</h1>
